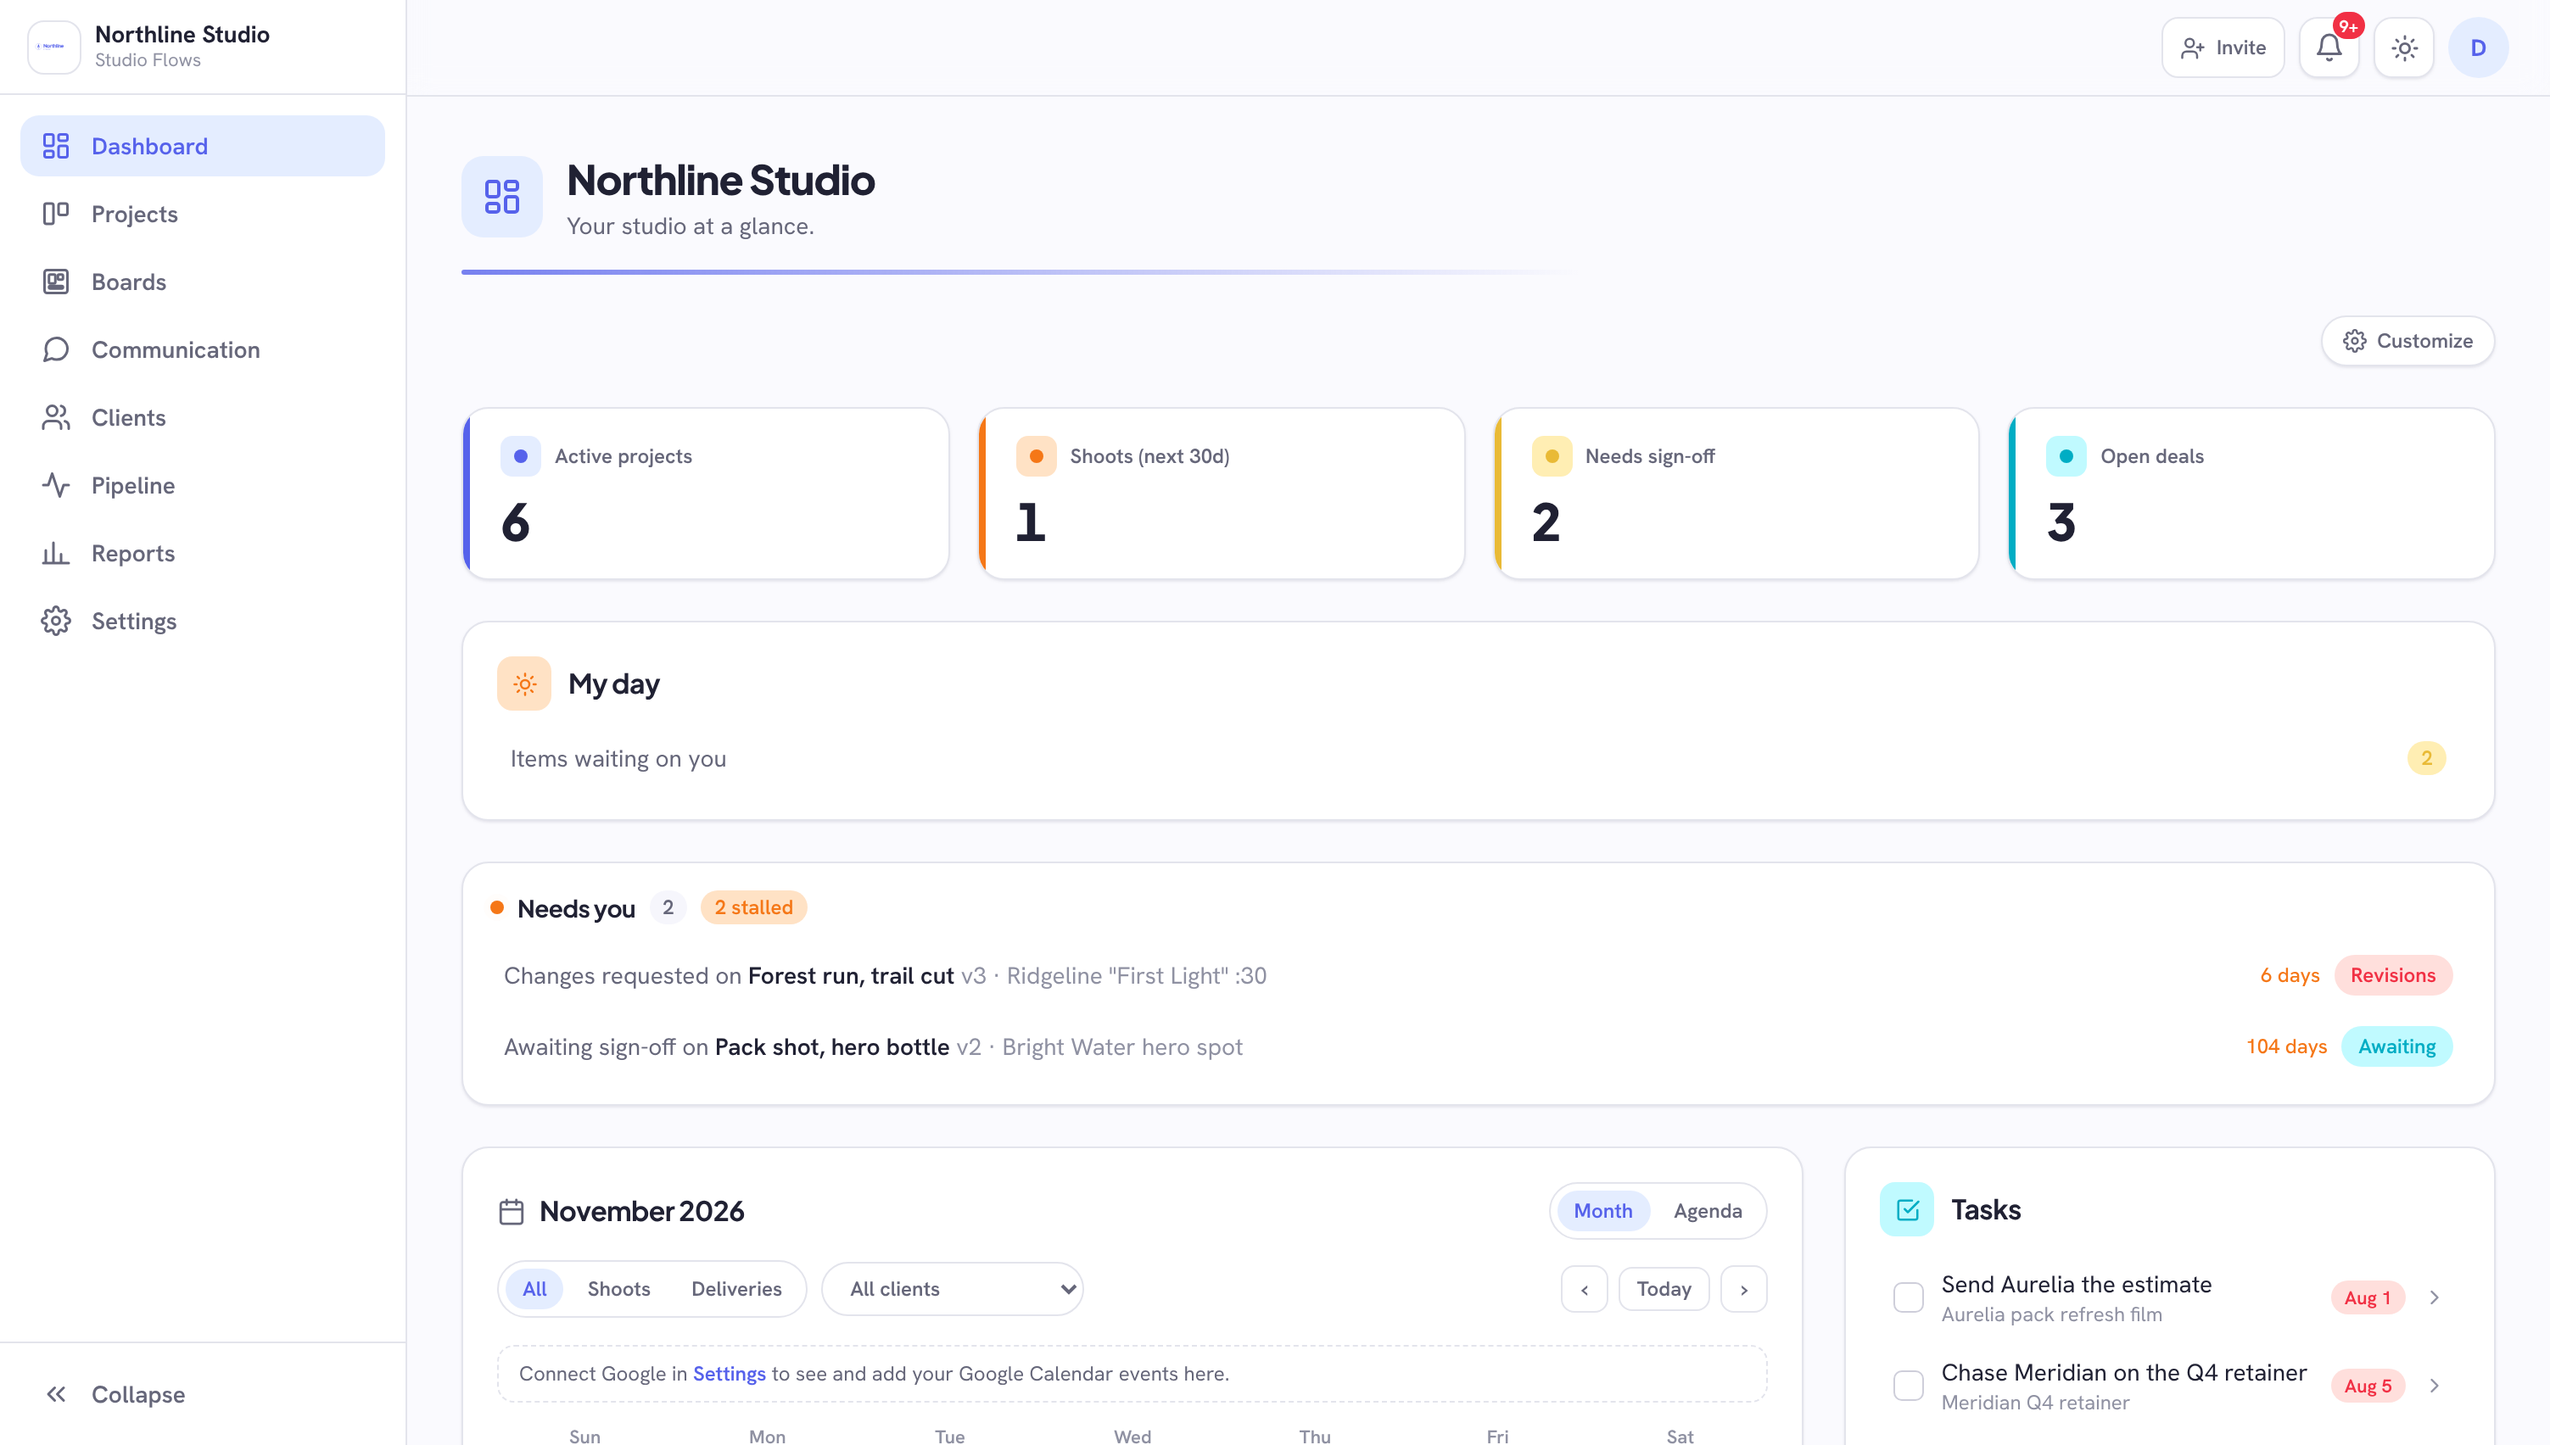
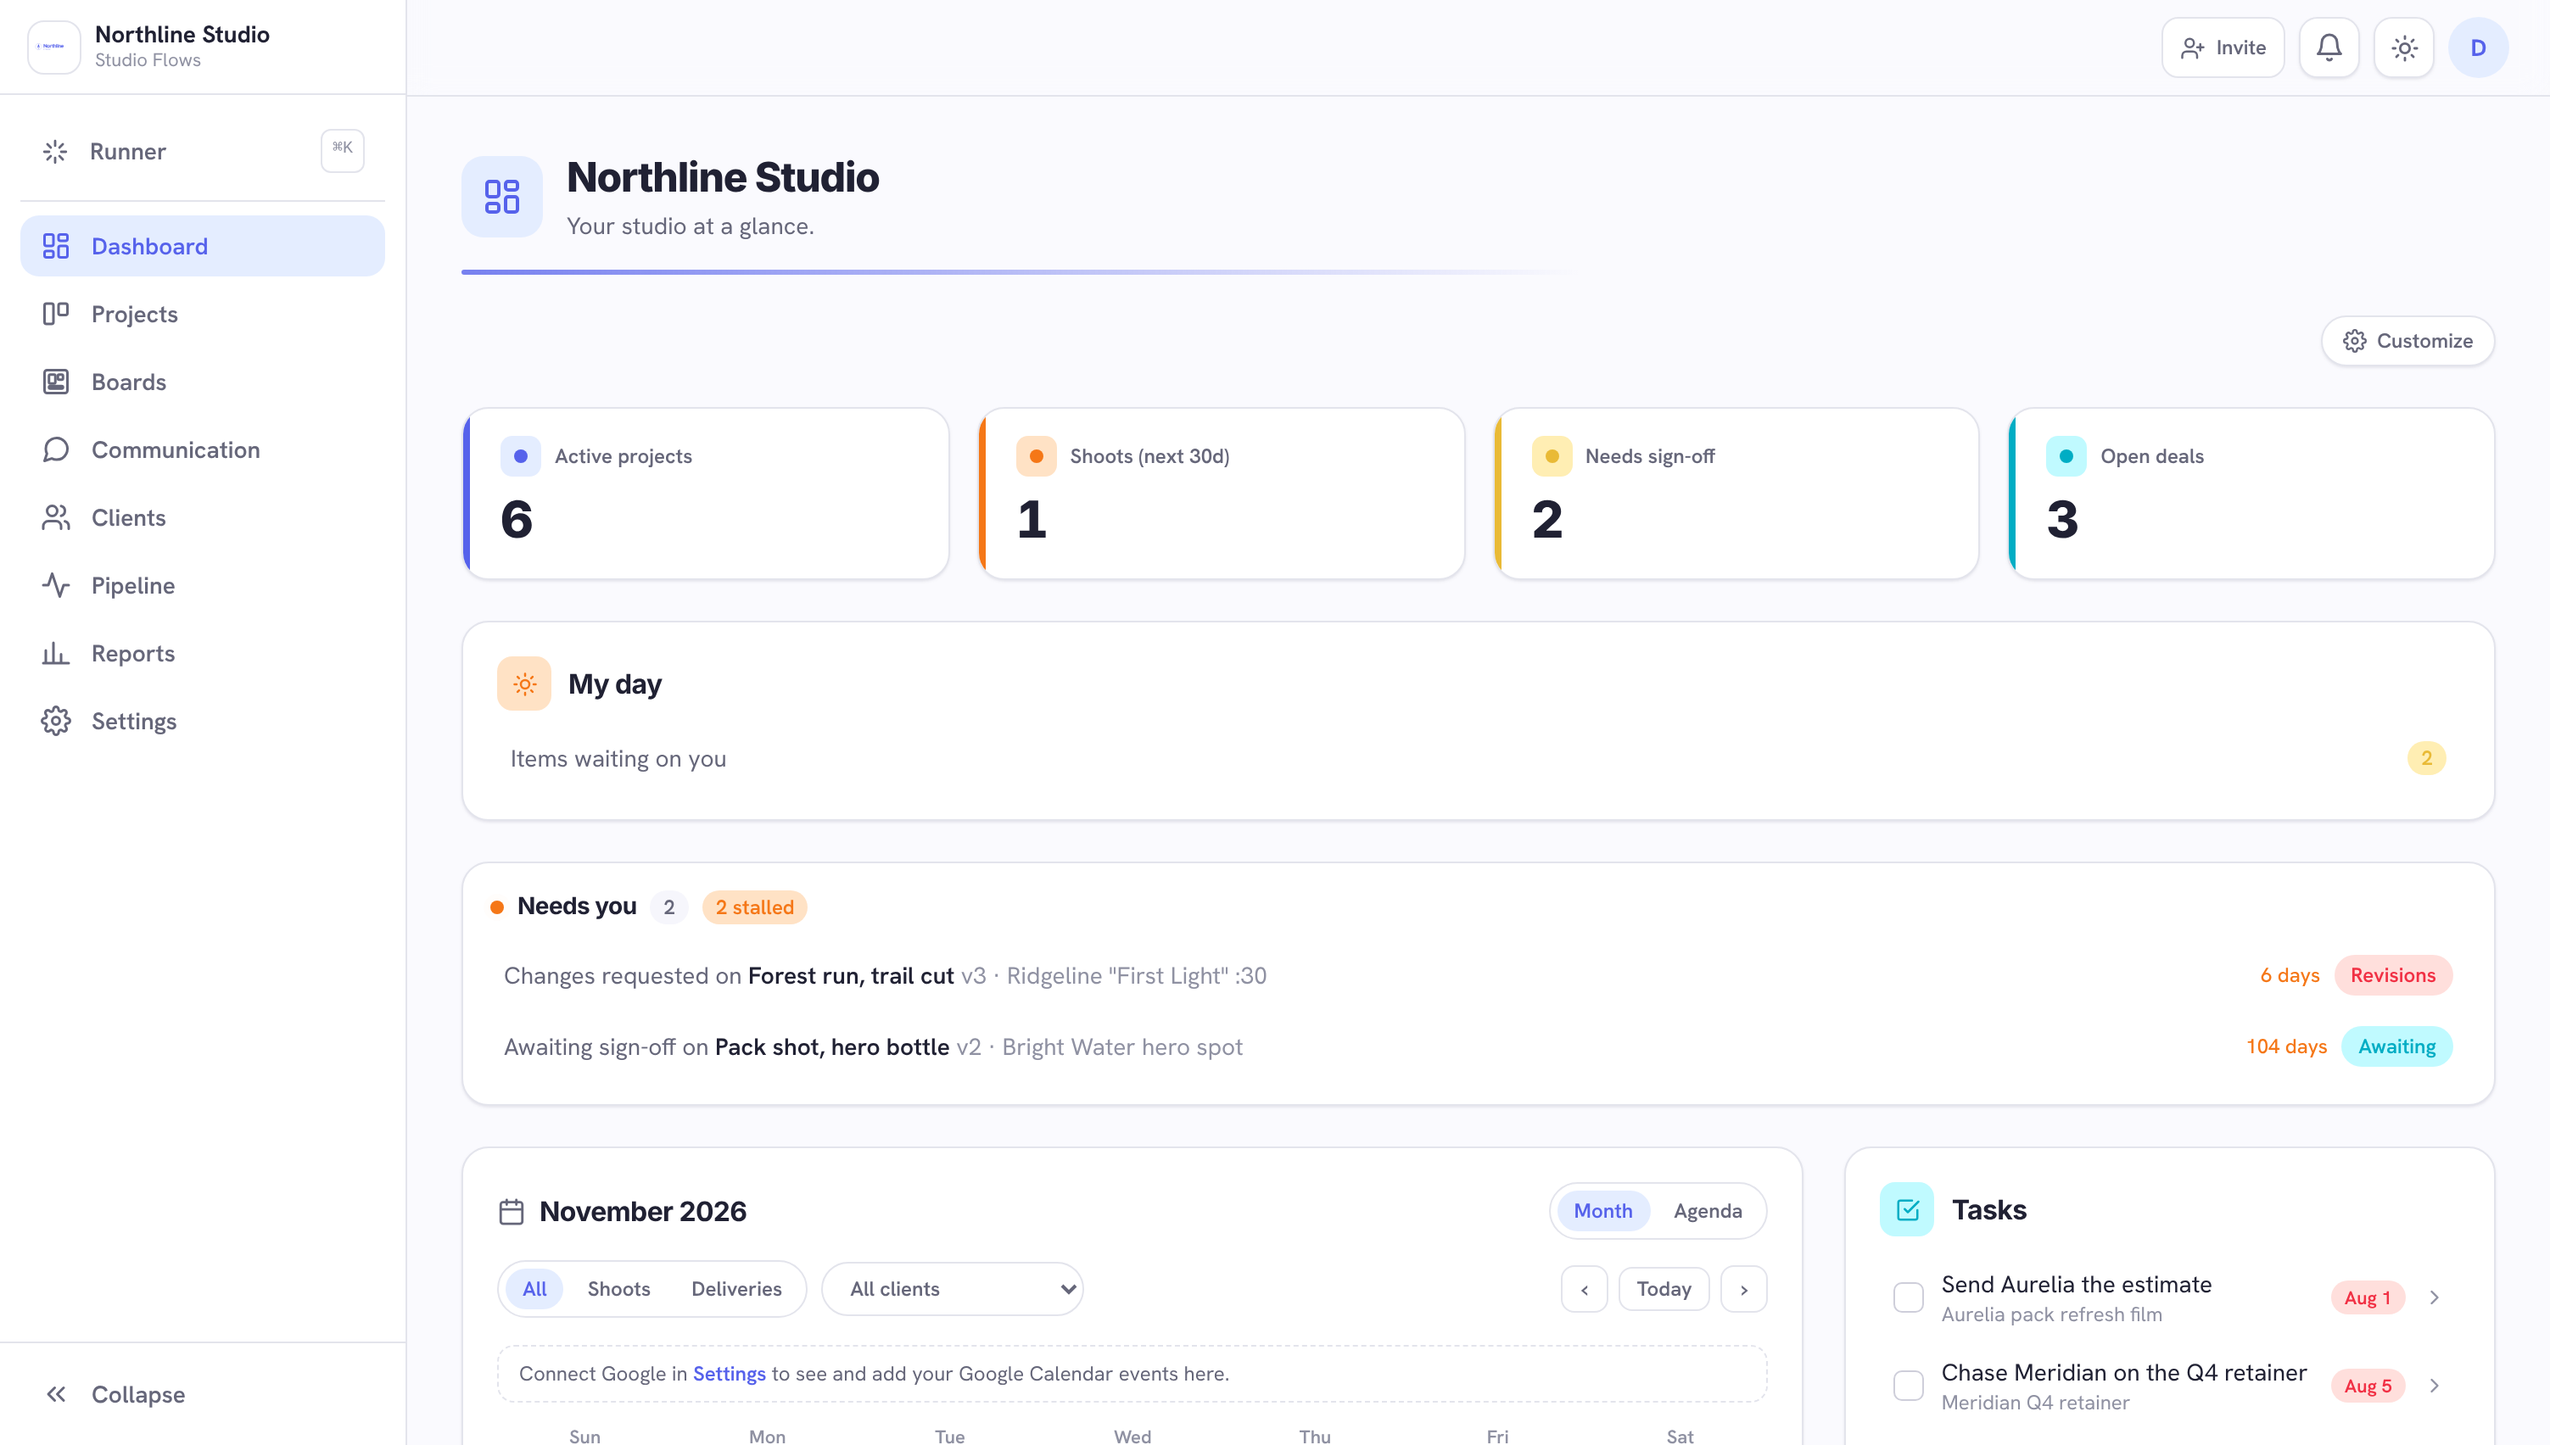
Help center: capture 13 more screenshots and wire them into the guides
Adds the delivery, scene builder, reports, settings, connections, AI
connector and signup captures to capture-shots.mjs (with heading scroll),
stops ONLY runs from retaking the portal and phone shots, and retakes the
dashboard so its sidebar matches production. Also drops the retired
'pre-production hub' wording from the auth footer and two AI prompts.

Claude-Session: https://claude.ai/code/session_01EQwuMAioQ2ZpRYTyXBriP3

diff --git a/lib/help/articles.ts b/lib/help/articles.ts
@@ -91,6 +91,7 @@ export const HELP_ARTICLES: HelpArticle[] = [
     title: "Create your account and studio",
     summary: "Sign up, confirm your email and land in your own studio.",
     minutes: 2,
+    hero: { shot: "signup", alt: "The Create your studio form" },
     keywords: ["sign up", "register", "login", "password", "confirm email"],
     steps: [
       {
@@ -117,6 +118,7 @@ export const HELP_ARTICLES: HelpArticle[] = [
     title: "Find your way around",
     summary: "The sidebar, the dashboard, notifications and the guided tour.",
     minutes: 3,
+    hero: { shot: "dashboard", alt: "The dashboard with project counts, My day, Needs you, the calendar and tasks" },
     keywords: ["navigation", "sidebar", "dashboard", "tour", "dark mode", "theme"],
     steps: [
       {
@@ -146,6 +148,7 @@ export const HELP_ARTICLES: HelpArticle[] = [
     title: "Start a project",
     summary: "Create a job, tie it to a client and pick the kind of production.",
     minutes: 2,
+    hero: { shot: "project-hub", alt: "A project hub with its stage stepper, counts, AI summary and module cards" },
     keywords: ["new project", "create job", "wizard", "project type", "ai video", "live action"],
     steps: [
       {
@@ -194,6 +197,7 @@ export const HELP_ARTICLES: HelpArticle[] = [
     title: "Add the brief and upload assets",
     summary: "Store the creative brief and keep every file and version in one library.",
     minutes: 3,
+    hero: { shot: "project-assets", alt: "The asset library with an upload area and versioned files" },
     keywords: ["upload", "files", "versions", "library", "drive", "figma", "documents"],
     steps: [
       {
@@ -349,6 +353,7 @@ export const HELP_ARTICLES: HelpArticle[] = [
     title: "Previz a setup in the scene builder",
     summary: "Build a 3D set with real cameras, lenses and lights, then send shots to the shot list.",
     minutes: 6,
+    hero: { shot: "project-scene-builder", alt: "The scene builder's starting rooms: empty room, seamless, kitchen, bathroom and bedroom" },
     keywords: ["3d", "previz", "lighting", "lens", "camera", "diagram", "viewfinder"],
     steps: [
       {
@@ -445,6 +450,7 @@ export const HELP_ARTICLES: HelpArticle[] = [
     title: "Compare versions and sign off",
     summary: "Upload the next cut, compare it with the last, and record approvals.",
     minutes: 3,
+    hero: { shot: "project-review", alt: "The Review page grouping work by awaiting review and changes requested" },
     keywords: ["compare", "wipe", "v2", "revision rounds", "approve", "request changes"],
     steps: [
       {
@@ -484,6 +490,7 @@ export const HELP_ARTICLES: HelpArticle[] = [
       {
         title: "Adjust the day",
         body: "Change a row's duration and everything after it moves. Pin a row (like lunch at 1:00) to hold its time; the schedule then shows how far the morning runs over or under it.",
+        media: { shot: "project-schedule", alt: "A schedule day with call, setup and shoot rows, their durations and the scheduled wrap" },
       },
       {
         title: "Drag rows between days",
@@ -592,6 +599,7 @@ export const HELP_ARTICLES: HelpArticle[] = [
     title: "Deliver final files to the client",
     summary: "Track deliverables and send the client one link to download everything.",
     minutes: 3,
+    hero: { shot: "project-delivery", alt: "The Deliverables page with each deliverable's stage and due date, and the final files" },
     keywords: ["delivery", "masters", "download link", "deliverables", "due date"],
     steps: [
       {
@@ -713,6 +721,7 @@ export const HELP_ARTICLES: HelpArticle[] = [
     title: "Read your studio reports",
     summary: "See revenue, margin, on-time delivery and client response times across jobs.",
     minutes: 2,
+    hero: { shot: "reports", alt: "Studio reports with billed, cost, margin, on-time delivery and client response" },
     keywords: ["reports", "analytics", "profit", "turnaround", "quarter"],
     steps: [
       {
@@ -737,6 +746,7 @@ export const HELP_ARTICLES: HelpArticle[] = [
     title: "Manage clients and the deal pipeline",
     summary: "Track prospects, move deals through stages and log every touchpoint.",
     minutes: 4,
+    hero: { shot: "pipeline", alt: "The deal pipeline with Inbound, Qualifying, Bidding, Awarded and Lost columns" },
     keywords: ["crm", "leads", "prospects", "pipeline", "deals", "follow up", "accounts"],
     steps: [
       {
@@ -764,6 +774,7 @@ export const HELP_ARTICLES: HelpArticle[] = [
     title: "Let clients request new work by link",
     summary: "Give a client one link that turns their request into a deal with the brief attached.",
     minutes: 2,
+    hero: { shot: "client", alt: "A client page with its Request link button, contacts, projects and deals" },
     keywords: ["intake form", "request", "new job", "inbound"],
     steps: [
       {
@@ -877,6 +888,7 @@ export const HELP_ARTICLES: HelpArticle[] = [
     title: "Connect your own Claude or ChatGPT",
     summary: "Make a private connector link so your own assistant can read and add to Studio Flows.",
     minutes: 3,
+    hero: { shot: "settings-ai-connector", alt: "The AI connector card in Settings with Make a link" },
     keywords: ["mcp", "connector", "claude", "chatgpt", "integration"],
     steps: [
       {
@@ -906,6 +918,7 @@ export const HELP_ARTICLES: HelpArticle[] = [
     title: "Invite your team and collaborators",
     summary: "Add studio members, or give crew access to one project only.",
     minutes: 3,
+    hero: { shot: "settings", alt: "Settings with the Team card and the invite form" },
     keywords: ["invite", "team", "members", "roles", "collaborator", "reviewer", "permissions"],
     steps: [
       {
@@ -932,6 +945,7 @@ export const HELP_ARTICLES: HelpArticle[] = [
     title: "Set your branding and connections",
     summary: "Add your logo and studio name, and connect Google, Slack, Figma and BILL.",
     minutes: 2,
+    hero: { shot: "settings-connections", alt: "The Connections card with Google and Slack connected" },
     keywords: ["logo", "branding", "studio name", "settings", "integrations", "figma", "drive"],
     steps: [
       {

diff --git a/lib/ai.ts b/lib/ai.ts
@@ -57,7 +57,7 @@ export function aiModel(): string {
   return aiProvider() === "openai" ? OPENAI_MODEL : ANTHROPIC_MODEL;
 }
 
-const SUMMARY_SYSTEM = `You are the status assistant inside a pre-production hub used by a commercial production studio. A busy producer clicks "Where does this project stand?" and you answer from the project data provided.
+const SUMMARY_SYSTEM = `You are the status assistant inside a production hub used by a commercial production studio. A busy producer clicks "Where does this project stand?" and you answer from the project data provided.
 
 Write a tight, scannable status read for someone who has twenty seconds.
 
@@ -256,7 +256,7 @@ const CHANNEL_RULE: Record<PolishChannel, string> = {
 };
 
 function polishSystem(intent: PolishIntent, channel: PolishChannel): string {
-  return `You are a writing assistant inside a pre-production hub used by a commercial production studio. A producer has written a message to a client, agency, or crew member and asked you to rewrite it before they send it.
+  return `You are a writing assistant inside a production hub used by a commercial production studio. A producer has written a message to a client, agency, or crew member and asked you to rewrite it before they send it.
 
 Your task: ${INTENT_RULE[intent]}
 

diff --git a/app/(auth)/layout.tsx b/app/(auth)/layout.tsx
@@ -18,7 +18,7 @@ export default function AuthLayout({
         {children}
       </div>
       <p className="mt-8 text-center text-xs text-text-faint">
-        A connected pre-production hub for commercial production studios.
+        A connected production hub for commercial production studios.
       </p>
       <p className="mt-2 text-center text-xs text-text-faint">
         <Link href="/terms" className="hover:text-text-muted hover:underline">

diff --git a/CLAUDE.md b/CLAUDE.md
@@ -5820,10 +5820,11 @@ screenshots, recordings and filters per feature.
   other topics), and HowTo JSON-LD. Statically generated.
 - components/marketing/help/help-media.tsx renders NOTHING when the capture is
   missing (unlike <Shot>), so an article can name a screenshot or clip before it
-  exists and it appears once captured. Only 14 shots, 4 closeups and 1 usable
-  clip exist today, so most guides are text-only for now. The biggest gaps
-  worth capturing: dashboard, project hub, assets, review page, schedule still,
-  deliverables, CRM pipeline, settings (team, connections, AI connector).
+  exists and it appears once captured. 29 of the 31 guides now have a hero (all
+  but pay-vendors-with-bill and send-feedback). The help shots are in
+  scripts/capture-shots.mjs SHOTS (project-delivery, project-scene-builder,
+  reports, settings, settings-connections, settings-ai-connector, plus signup in
+  the signed-out extras); an optional fifth entry names an h2 to scroll to.
 - Wired into PUBLIC_PATHS ("/help", prefix), the sitemap, desktop + mobile nav
   ("Help") and the footer ("Help center").
 - CAPTURES CAN RUN FROM A SESSION NOW (2026-11-09), which corrects every
@@ -5833,9 +5834,13 @@ screenshots, recordings and filters per feature.
   the Supabase MCP get_publishable_keys) saved a real dashboard shot. Two
   gotchas: the script imports `playwright` as ESM, which ignores the global
   install, so symlink /opt/node-tools/node_modules/playwright into node_modules
-  first; and the script ALWAYS retakes the portal and phone shots whatever ONLY
-  says, so check git status and restore any live shot that was not meant to
-  change.
+  first. With ONLY set, the signed-out portal, signup and phone shots are taken
+  only when named. START THE DEV SERVER WITH DUMMY CONNECTOR AND AI ENV
+  (GOOGLE_/SLACK_/FIGMA_CLIENT_ID+SECRET=x, BILL_DEV_KEY=x, BILL_CRED_KEY=64 hex,
+  OPENAI_API_KEY=dummy): without them Settings shows amber "not configured"
+  banners, the hub shows "add an API key" instead of the stored summary, and
+  the sidebar loses its Runner row, so shots disagree with production. Nothing
+  is ever called with those values during a capture.
 
 ### THE WEBSITE'S BIGGEST REMAINING PROBLEM: /moodboard-maker is empty
 Audited 2026-09-08 and not yet fixed. The page is the reference implementation
